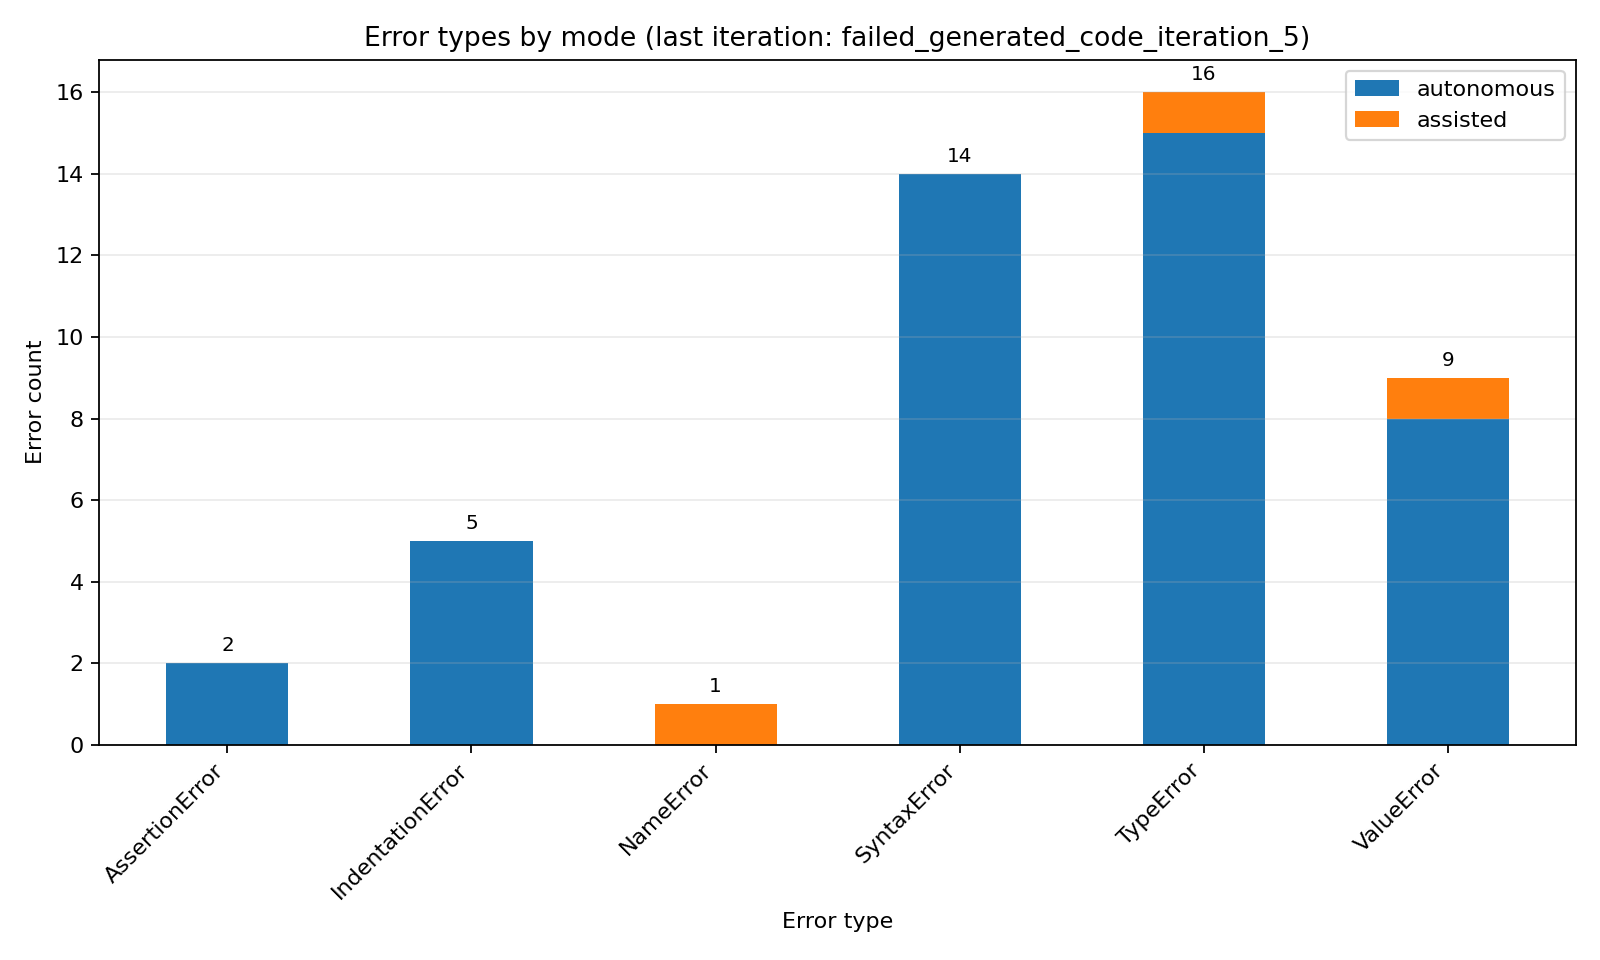
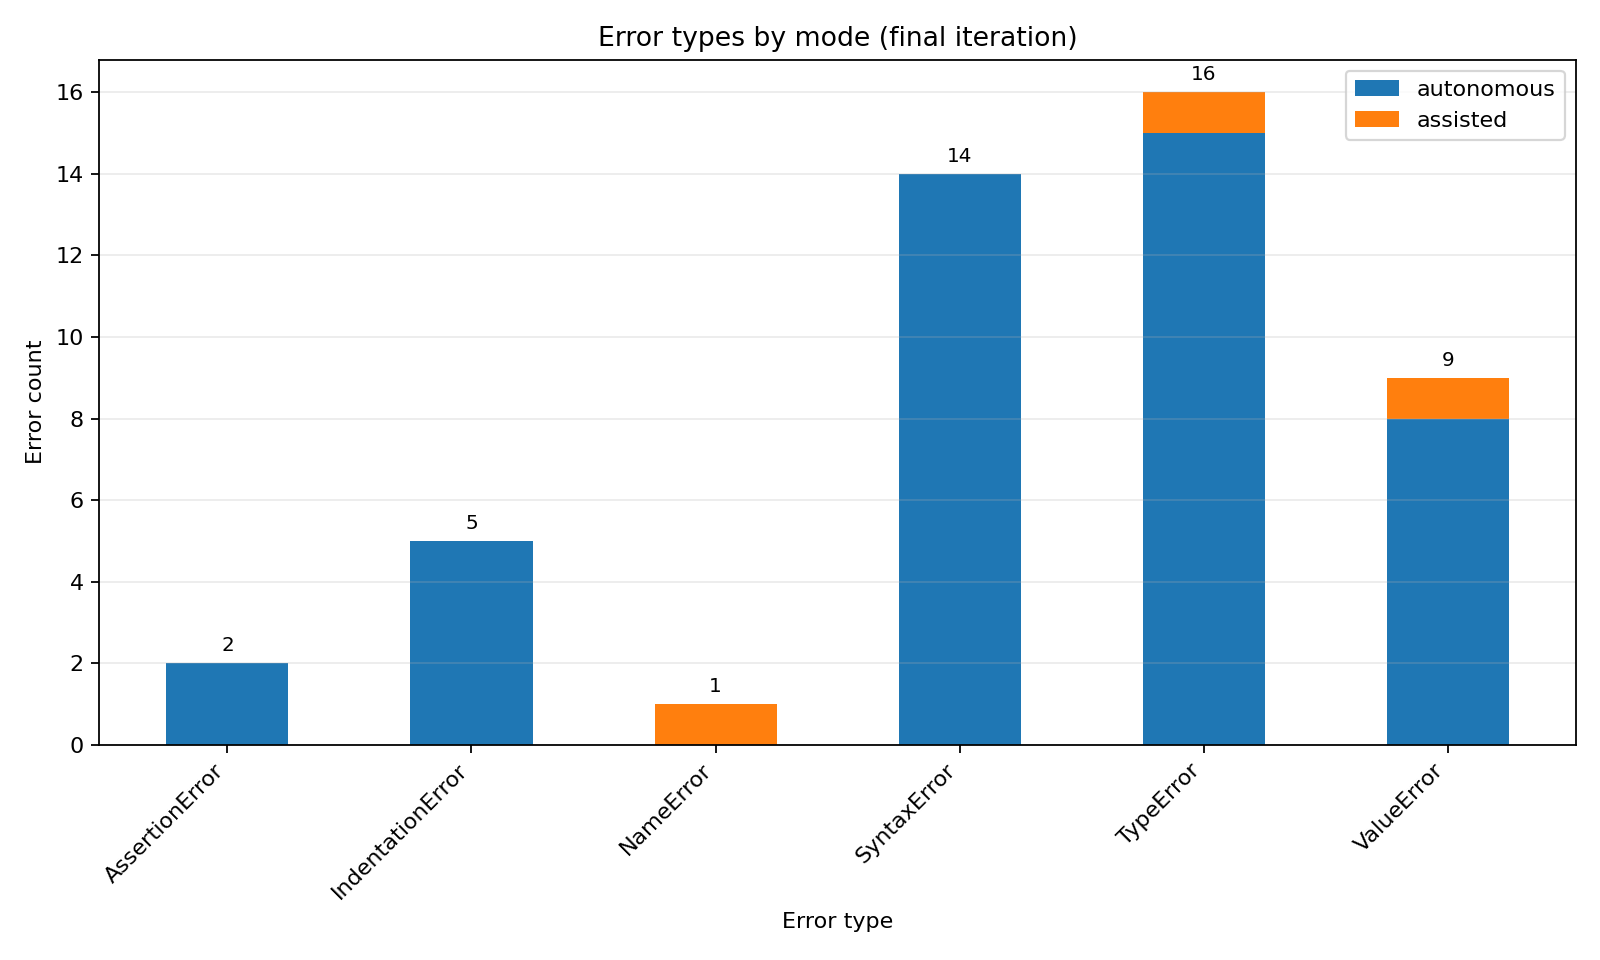
add error analysis

Changed region(s): [[0.2188, 0.0312, 0.8125, 0.0625]]

diff --git a/scripts/error_analysis.py b/scripts/error_analysis.py
@@ -339,7 +339,7 @@ def plot_last_iteration_error_types(iterations: List[Dict[str, object]], out_dir
                 fontsize=9,
             )
 
-    ax.set_title(f"Error types by mode (last iteration: {last['iteration']})")
+    ax.set_title(f"Error types by mode (final iteration)")
     ax.set_xlabel("Error type")
     ax.set_ylabel("Error count")
     ax.set_xticks(idx)
